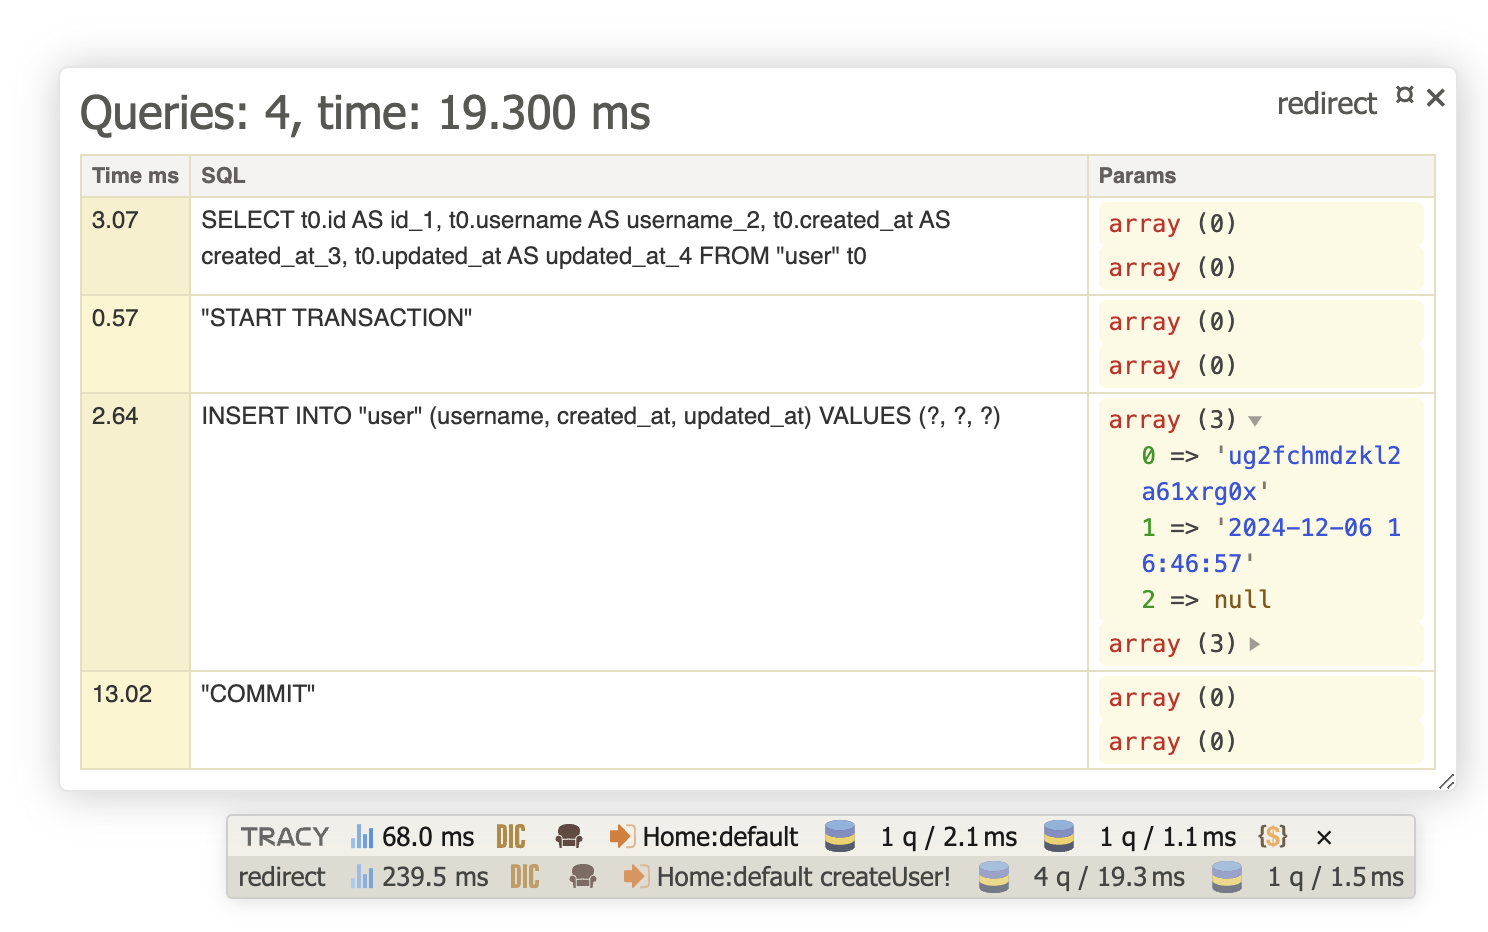
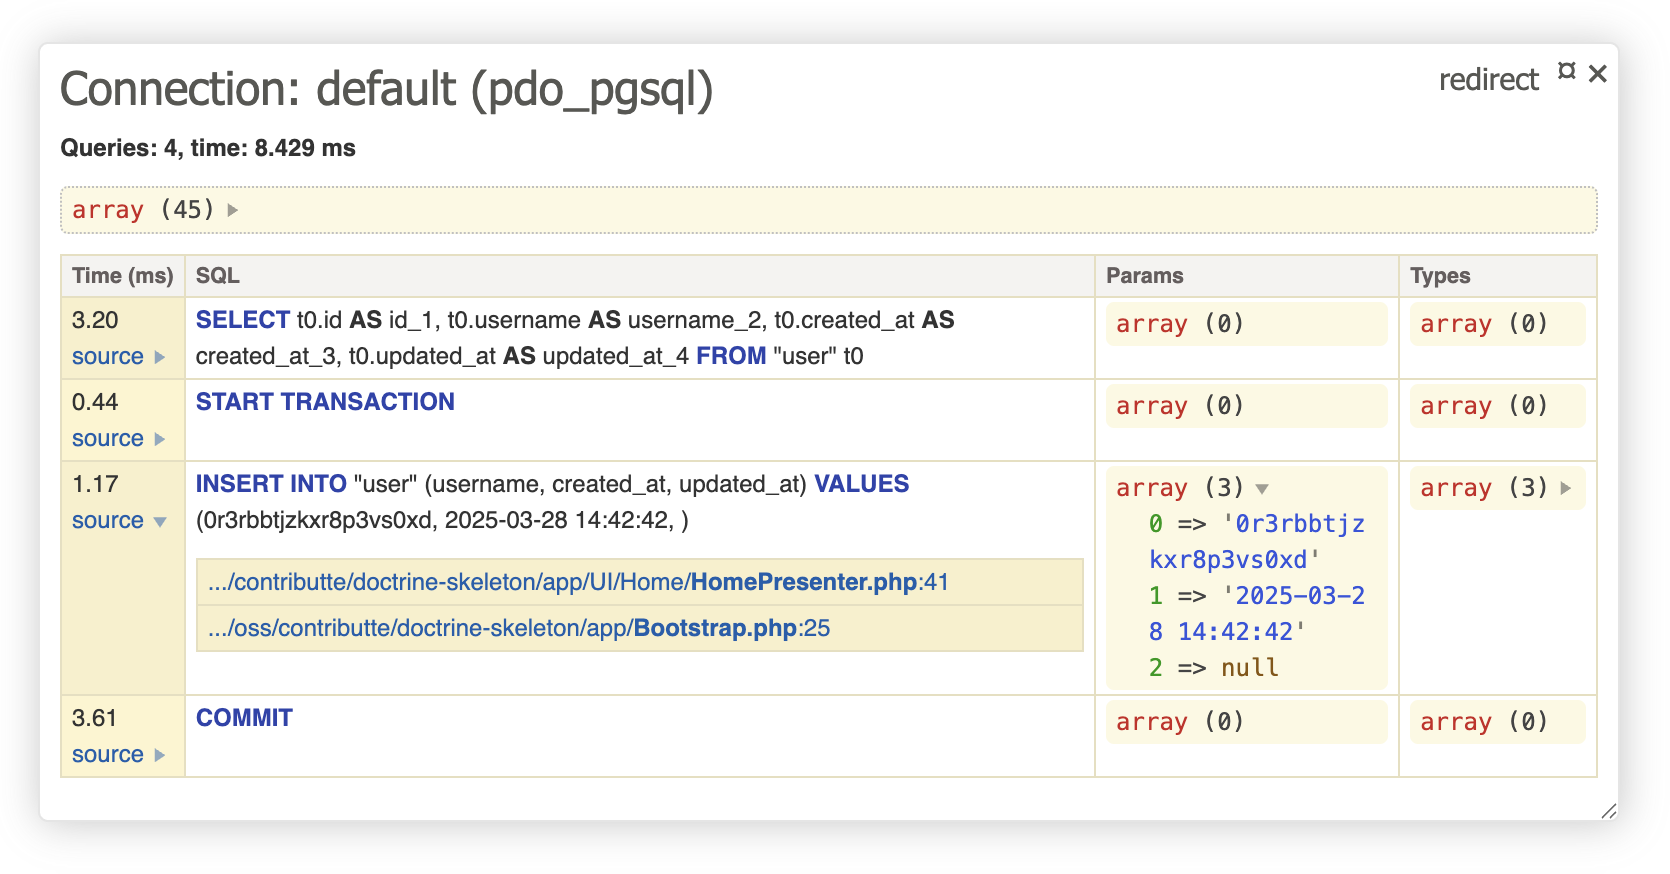
Tracy: polished tracy panel [#89]

diff --git a/src/Utils/QueryUtils.php b/src/Utils/QueryUtils.php
@@ -1,0 +1,126 @@
+<?php declare(strict_types = 1);
+
+namespace Nettrine\DBAL\Utils;
+
+use Doctrine\DBAL\ArrayParameterType;
+use Doctrine\DBAL\Connection;
+use Doctrine\DBAL\ExpandArrayParameters;
+use Doctrine\DBAL\SQL\Parser;
+
+/** @phpstan-import-type WrapperParameterTypeArray from Connection */
+final class QueryUtils
+{
+
+	/**
+	 * Highlight given SQL parts
+	 */
+	public static function highlight(string $sql): string
+	{
+		static $keywords1 = 'SELECT|(?:ON\s+DUPLICATE\s+KEY)?UPDATE|INSERT(?:\s+INTO)?|REPLACE(?:\s+INTO)?|SHOW|DELETE|CALL|UNION|FROM|WHERE|HAVING|GROUP\s+BY|ORDER\s+BY|LIMIT|OFFSET|SET|VALUES|LEFT\s+JOIN|INNER\s+JOIN|TRUNCATE|START\s+TRANSACTION|COMMIT|ROLLBACK|(?:RELEASE\s+|ROLLBACK\s+TO\s+)?SAVEPOINT';
+		static $keywords2 = 'ALL|DISTINCT|DISTINCTROW|IGNORE|AS|USING|ON|AND|OR|IN|IS|NOT|NULL|[RI]?LIKE|REGEXP|TRUE|FALSE';
+		$sql = ' ' . $sql . ' ';
+		$sql = htmlspecialchars($sql, ENT_IGNORE, 'UTF-8');
+		$sql = preg_replace_callback(sprintf('#(/\\*.+?\\*/)|(?<=[\\s,(])(%s)(?=[\\s,)])|(?<=[\\s,(=])(%s)(?=[\\s,)=])#is', $keywords1, $keywords2), function ($matches) {
+			if (isset($matches[1]) && $matches[1] !== '') { // comment
+				return '<em style="color:gray">' . $matches[1] . '</em>';
+			}
+
+			if (isset($matches[2]) && $matches[2] !== '') { // most important keywords
+				return '<strong style="color:#2D44AD">' . $matches[2] . '</strong>';
+			}
+
+			if (isset($matches[3]) && $matches[3] !== '') { // other keywords
+				return '<strong>' . $matches[3] . '</strong>';
+			}
+		}, $sql);
+
+		return trim((string) $sql);
+	}
+
+	/**
+	 * @param string[] $sourcePaths
+	 * @param array<array{file: ?string, line: ?string}> $backtrace
+	 * @return mixed[]
+	 */
+	public static function getSource(array $sourcePaths, array $backtrace): array
+	{
+		$result = [];
+		if (count($sourcePaths) === 0) {
+			return $result;
+		}
+
+		foreach ($backtrace as $i) {
+			if (!isset($i['file'], $i['line'])) {
+				continue;
+			}
+
+			foreach ($sourcePaths as $path) {
+				$path = realpath($path);
+				assert(is_string($path));
+
+				if (str_contains($i['file'], $path)) {
+					$result[] = $i;
+				}
+			}
+		}
+
+		return $result;
+	}
+
+	/**
+	 * @see https://github.com/doctrine/dbal/blob/4.2.x/src/Connection.php#L1379
+	 * @param array<int, mixed>|array<string, mixed> $params
+	 * @phpstan-param WrapperParameterTypeArray $types
+	 * @return array{0: string, 1:array<int, string>, 2: array<int,string>}
+	 */
+	public static function expand(string $sql, array $params, array $types): array
+	{
+		$needsConversion = false;
+		$nonArrayTypes = [];
+
+		if (is_string(key($params))) {
+			$needsConversion = true;
+		} else {
+			foreach ($types as $key => $type) {
+				if ($type instanceof ArrayParameterType) {
+					$needsConversion = true;
+					break;
+				}
+
+				$nonArrayTypes[$key] = $type;
+			}
+		}
+
+		if (!$needsConversion) {
+			return [$sql, $params, $nonArrayTypes]; // @phpstan-ignore-line
+		}
+
+		$parser = new Parser(false);
+		$visitor = new ExpandArrayParameters($params, $types);
+
+		$parser->parse($sql, $visitor);
+
+		// @phpstan-ignore-next-line
+		return [
+			$visitor->getSQL(),
+			$visitor->getParameters(),
+			$visitor->getTypes(),
+		];
+	}
+
+	/**
+	 * @see https://github.com/doctrine/dbal/blob/4.2.x/src/Connection.php#L1379
+	 * @param array<int, mixed>|array<string, mixed> $params
+	 */
+	public static function expandSql(string $sql, array $params): string
+	{
+		// Escape % before vsprintf (example: LIKE '%ant%')
+		$query = str_replace(['%', '?'], ['%%', '%s'], $sql);
+
+		// Expand SQL ? parameters
+		$query = vsprintf($query, $params); // @phpstan-ignore-line
+
+		return $query;
+	}
+
+}

diff --git a/src/Tracy/ConnectionPanel.php b/src/Tracy/ConnectionPanel.php
@@ -6,6 +6,7 @@ use Doctrine\DBAL\Connection;
 use Doctrine\DBAL\Driver\Exception;
 use Doctrine\DBAL\Query\QueryException;
 use Nettrine\DBAL\Middleware\Debug\DebugStack;
+use Nettrine\DBAL\Utils\QueryUtils;
 use PDO;
 use PDOException;
 use Throwable;
@@ -20,16 +21,20 @@ class ConnectionPanel implements IBarPanel
 
 	protected DebugStack $stack;
 
+	protected Connection $connection;
+
 	protected string $connectionName;
 
-	private function __construct(DebugStack $stack, string $connectionName)
+	private function __construct(DebugStack $stack, Connection $connection, string $connectionName)
 	{
 		$this->stack = $stack;
+		$this->connection = $connection;
 		$this->connectionName = $connectionName;
 	}
 
 	public static function initialize(
 		DebugStack $stack,
+		Connection $connection,
 		string $connectionName,
 		?Bar $bar = null,
 		?BlueScreen $blueScreen = null,
@@ -38,7 +43,7 @@ class ConnectionPanel implements IBarPanel
 		$blueScreen ??= Debugger::getBlueScreen();
 		$blueScreen->addPanel(self::renderException(...));
 
-		$panel = new self($stack, $connectionName);
+		$panel = new self($stack, $connection, $connectionName);
 		$bar ??= Debugger::getBar();
 		$bar->addPanel($panel);
 
@@ -90,7 +95,7 @@ class ConnectionPanel implements IBarPanel
 	{
 		// phpcs:disable
 		return Helpers::capture(function (): void {
-			$queries = $this->stack->getDataBy($this->connectionName);
+			$queries = $this->getQueries();
 			$queriesNum = count($queries);
 			$totalTime = 0;
 
@@ -107,7 +112,10 @@ class ConnectionPanel implements IBarPanel
 	{
 		// phpcs:disable
 		return Helpers::capture(function (): void {
-			$queries = $this->stack->getDataBy($this->connectionName);
+			$connection = $this->connection;
+			$connectionName = $this->connectionName;
+
+			$queries = $this->getQueries();
 			$queriesNum = count($queries);
 			$totalTime = 0;
 
@@ -118,6 +126,27 @@ class ConnectionPanel implements IBarPanel
 			require __DIR__ . '/templates/panel.phtml';
 		});
 		// phpcs:enable
+	}
+
+	/**
+	 * @return array<int, array{sql2: string, sql: string, params: mixed[], types: mixed[], duration: float, source: array<mixed> }>
+	 */
+	private function getQueries(): array
+	{
+		$queries = $this->stack->getDataBy($this->connectionName);
+
+		$output = [];
+		foreach ($queries as $idx => $query) {
+			[$sql, $params, $types] = QueryUtils::expand($query['sql'], $query['params'], $query['types']); // @phpstan-ignore-line
+
+			$query['sql2'] = QueryUtils::expandSql($sql, $params);
+			$query['params'] = $params;
+			$query['types'] = $types;
+
+			$output[$idx] = $query;
+		}
+
+		return $output;
 	}
 
 }

diff --git a/src/Middleware/Debug/DebugStack.php b/src/Middleware/Debug/DebugStack.php
@@ -2,6 +2,8 @@
 
 namespace Nettrine\DBAL\Middleware\Debug;
 
+use Nettrine\DBAL\Utils\QueryUtils;
+
 /**
  * @see https://github.com/symfony/doctrine-bridge
  * @internal
@@ -9,21 +11,33 @@ namespace Nettrine\DBAL\Middleware\Debug;
 class DebugStack
 {
 
-	/** @var array<string, array<int, array{sql: string, params: mixed[], types: mixed[], duration: callable|float }>> */
+	/** @var array<string, array<int, array{sql: string, params: mixed[], types: mixed[], duration: callable|float, source: array<mixed> }>> */
 	private array $data = [];
+
+	/**
+	 * @param array<string> $sourcePaths
+	 */
+	public function __construct(
+		private array $sourcePaths = []
+	)
+	{
+	}
 
 	public function addQuery(string $connectionName, DebugQuery $query): void
 	{
+		$backtrace = QueryUtils::getSource($this->sourcePaths, debug_backtrace()); // @phpstan-ignore-line
+
 		$this->data[$connectionName][] = [
 			'sql' => $query->getSql(),
 			'params' => $query->getParams(),
 			'types' => $query->getTypes(),
 			'duration' => $query->getDuration(...), // stop() may not be called at this point
+			'source' => $backtrace,
 		];
 	}
 
 	/**
-	 * @return array<string, array<int, array{sql: string, params: mixed[], types: mixed[], duration: float }>>
+	 * @return array<string, array<int, array{sql: string, params: mixed[], types: mixed[], duration: float, source: array<mixed> }>>
 	 */
 	public function getData(): array
 	{
@@ -41,7 +55,7 @@ class DebugStack
 	}
 
 	/**
-	 * @return array<int, array{sql: string, params: mixed[], types: mixed[], duration: float }>
+	 * @return array<int, array{sql: string, params: mixed[], types: mixed[], duration: float, source: array<mixed> }>
 	 */
 	public function getDataBy(string $connectionName): array
 	{

diff --git a/src/Middleware/Debug/DebugConnection.php b/src/Middleware/Debug/DebugConnection.php
@@ -60,7 +60,7 @@ final class DebugConnection extends AbstractConnectionMiddleware
 
 	public function beginTransaction(): void
 	{
-		$this->stack->addQuery($this->connectionName, $query = new DebugQuery('"START TRANSACTION"'));
+		$this->stack->addQuery($this->connectionName, $query = new DebugQuery('START TRANSACTION'));
 		$query->start();
 
 		try {
@@ -72,7 +72,7 @@ final class DebugConnection extends AbstractConnectionMiddleware
 
 	public function commit(): void
 	{
-		$this->stack->addQuery($this->connectionName, $query = new DebugQuery('"COMMIT"'));
+		$this->stack->addQuery($this->connectionName, $query = new DebugQuery('COMMIT'));
 		$query->start();
 
 		try {
@@ -84,7 +84,7 @@ final class DebugConnection extends AbstractConnectionMiddleware
 
 	public function rollBack(): void
 	{
-		$this->stack->addQuery($this->connectionName, $query = new DebugQuery('"ROLLBACK"'));
+		$this->stack->addQuery($this->connectionName, $query = new DebugQuery('ROLLBACK'));
 		$query->start();
 
 		try {

diff --git a/src/DI/Pass/ConnectionPass.php b/src/DI/Pass/ConnectionPass.php
@@ -84,7 +84,7 @@ class ConnectionPass extends AbstractPass
 		// Middlewares: debug
 		if ($config->debug->panel) {
 			$builder->addDefinition($this->prefix(sprintf('connections.%s.middleware.internal.debug.stack', $connectionName)))
-				->setFactory(DebugStack::class)
+				->setFactory(DebugStack::class, ['sourcePaths' => $config->debug->sourcePaths])
 				->setAutowired(false);
 			$builder->addDefinition($this->prefix(sprintf('connections.%s.middleware.internal.debug', $connectionName)))
 				->setFactory(DebugMiddleware::class, [$this->prefix(sprintf('@connections.%s.middleware.internal.debug.stack', $connectionName)), $connectionName])
@@ -132,7 +132,7 @@ class ConnectionPass extends AbstractPass
 			assert($debugStackDef instanceof ServiceDefinition);
 			$connectionDef->addSetup(
 				[ConnectionPanel::class, 'initialize'],
-				[$debugStackDef, $connectionName],
+				[$debugStackDef, $connectionDef, $connectionName],
 			);
 		}
 	}

diff --git a/.docs/README.md b/.docs/README.md
@@ -85,6 +85,7 @@ Here is the list of all available options with their types.
 nettrine.dbal:
   debug:
     panel: <boolean> # optional, it's determined automatically or passed to constructor when extension is registered
+    sourcePaths: array<string>
 
   types: array<string, class-string>
   typesMapping: array<string, class-string>
@@ -339,6 +340,15 @@ You can enable Tracy panels(s) multiple ways:
   ```
 
 ![Tracy](https://raw.githubusercontent.com/nettrine/dbal/master/.docs/assets/tracy.png)
+
+> [!TIP]
+> You can also use `sourcePaths` to backtrace queries to your source code.
+
+```neon
+nettrine.dbal:
+  debug:
+    sourcePaths: [%appDir%]
+```
 
 ### Middlewares
 
